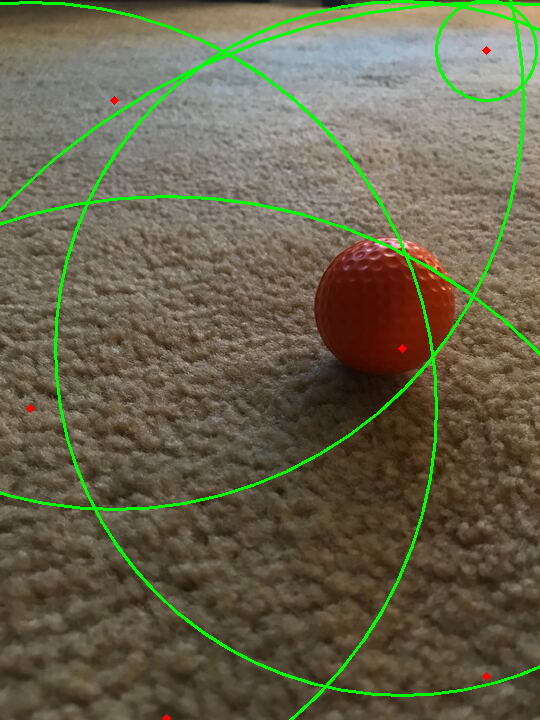
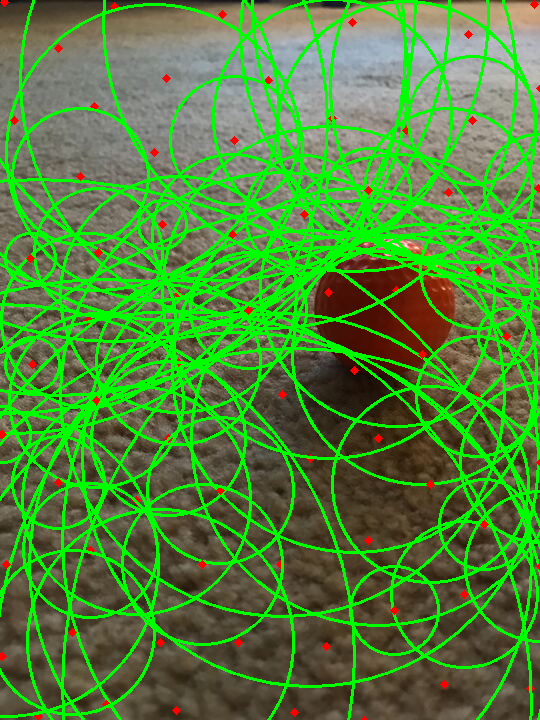
Changed the CircleDetection folder to have goodcircles.py = good

diff --git a/CircleDetection/goodcircles.py b/CircleDetection/goodcircles.py
@@ -1,0 +1,46 @@
+import sys
+import cv2 as cv
+import numpy as np
+def main(argv):
+    
+    default_file = 'manyBalls.png'
+    filename = argv[0] if len(argv) > 0 else default_file
+    # Loads an image
+    src = cv.imread(cv.samples.findFile(filename), cv.IMREAD_COLOR)
+    # Check if image is loaded fine
+    if src is None:
+        print ('Error opening image!')
+        print ('Usage: hough_circle.py [image_name -- default ' + default_file + '] \n')
+        return -1
+    
+    
+    gray = cv.cvtColor(src, cv.COLOR_BGR2GRAY)
+    
+    
+    gray = cv.medianBlur(gray, 15)
+    
+    rows = gray.shape[0]
+    circles = cv.HoughCircles(gray, cv.HOUGH_GRADIENT, 1, rows / 8,
+                               param1=100, param2=30,
+                               minRadius=10, maxRadius=200)
+    
+    
+    if circles is not None:
+        print('circles found')
+        circles = np.uint16(np.around(circles))
+        for i in circles[0, :]:
+            center = (i[0], i[1])
+            # circle center
+            cv.circle(src, center, 1, (0, 100, 100), 3)
+            # circle outline
+            radius = i[2]
+            cv.circle(src, center, radius, (255, 0, 255), 3)
+            #print(radius)
+    
+    
+    #cv.imshow("detected circles", src)
+    cv.imwrite('output.png', src)
+    cv.waitKey(0)
+    return 0
+if __name__ == "__main__":
+    main(sys.argv[1:])

diff --git a/CircleDetection/circles.py b/CircleDetection/circles.py
@@ -4,22 +4,23 @@ import numpy as np
 ball = cv2.imread('theBall.png')
 h, w, c = ball.shape
 gray_img = cv2.cvtColor(ball, cv2.COLOR_BGR2GRAY)
-img = cv2.medianBlur(gray_img, 5)
+img = cv2.medianBlur(gray_img, 3)
 cimg = cv2.cvtColor(img,cv2.COLOR_GRAY2BGR)
 
-circles = cv2.HoughCircles(img,cv2.HOUGH_GRADIENT,1,w,
+circles = cv2.HoughCircles(img,cv2.HOUGH_GRADIENT,1, w / 8,
 
-                           param1=300,param2=20,minRadius=0,maxRadius=0)
+                           param1=100,param2=30,minRadius=10,maxRadius=100)
 
 circles = np.uint16(np.around(circles))
 
 for i in circles[0,:]:
    # draw the outer circle
    cv2.circle(ball,(i[0],i[1]),i[2],(0,255,0),2)
+   print(ball[i[0], i[1]])
    # draw the center of the circle
    cv2.circle(ball,(i[0],i[1]),2,(0,0,255),3)
 
 cv2.imwrite("test.png", ball)
-cv2.imshow("HoughCirlces", ball)
+#cv2.imshow("HoughCirlces", ball)
 cv2.waitKey()
 cv2.destroyAllWindows()
